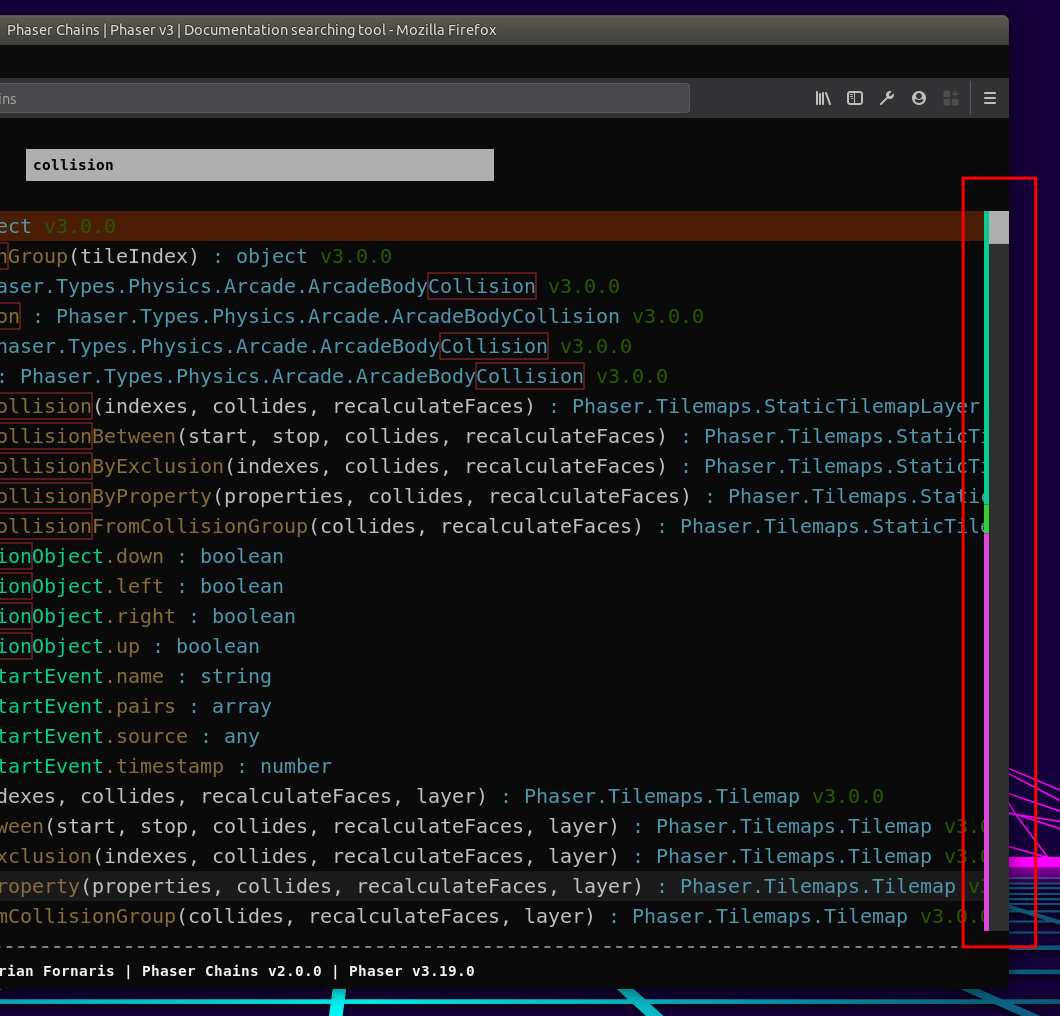
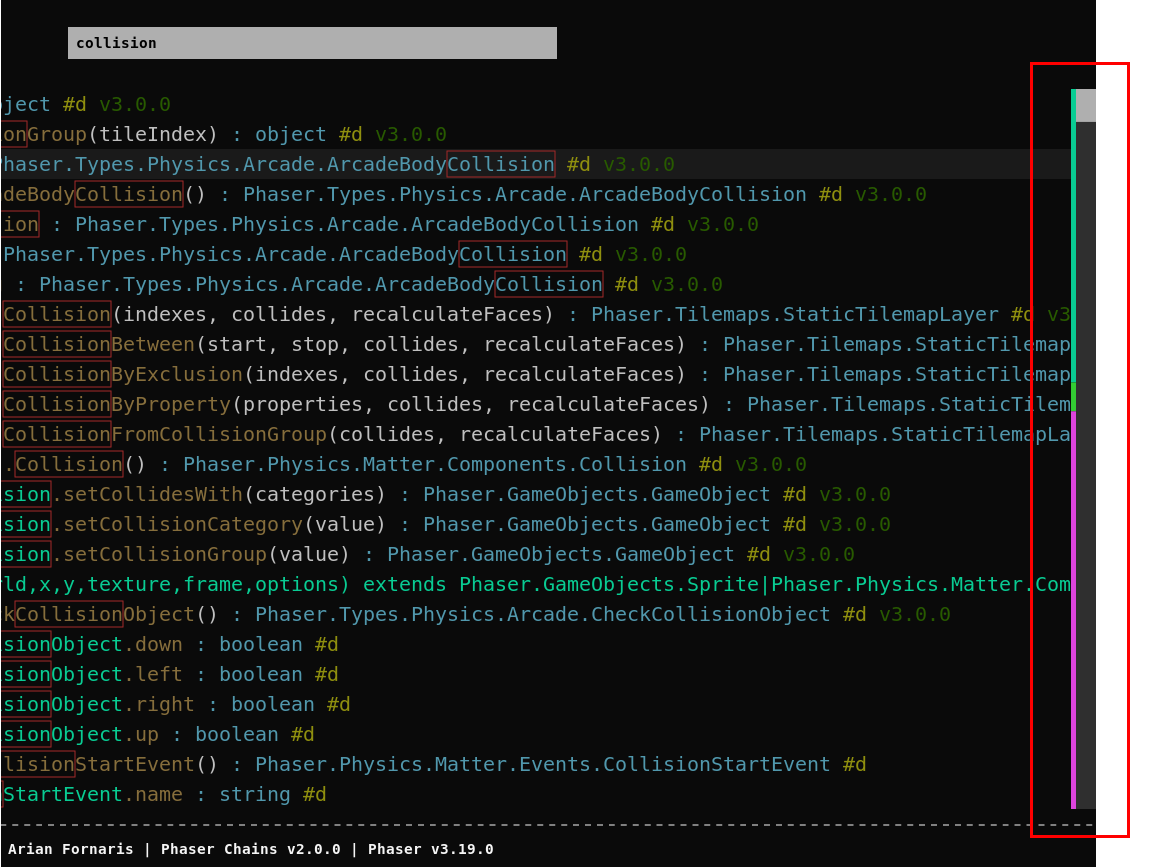
Docs.

diff --git a/README.md b/README.md
@@ -2,11 +2,13 @@
 
 [Phaser Chains](https://phasereditor2d.com/chains) is a tool to browse the Phaser API and examples. It is not the common navigator that presents the data as a tree of elements.
 
-For each Phaser API element we create a line of code (chain) with a particular format, so you will perform a search on all these lines and use the format to extract the information you are looking for.
+For each Phaser API element we create a line of code (chain) with a particular pattern, so you will perform a search on all these lines and use the pattern to extract the information you are looking for.
+
+We can say there are two type of API chains, a pure API element, like `Phaser.GameObjects.GameObjectFactory.sprite(..)`, and a "chained" element, like `Phaser.Scene.add.sprite(...)`. Both expressions point to the same API element. Note the chaining element is the "innovation" here, and allows to discover the API quickly.
 
 Let's see an example:
 
-You know the Phaser API allows to write lot of "chaining code", and you can add objects to a scene in this way: `this.add.sprite(...)`. That's ok, but know you want to know all the kind of objects you can add to the scene in the same way, so you write the query:
+You know you can add objects to a scene in this way: `this.add.sprite(...)`, chaining properties and methods. That's ok, but know you want to know all the kind of objects you can add to the scene in the same way, so you write the query:
 
 ```
 this.add (
@@ -35,7 +37,7 @@ Then you will get a merge of Phaser API elements and Phaser examples lines.
 ![Results on Phaser API and Phaser examples](guide-images/search-3.png)
 
 
-## The Documentation Panel
+## The documentation panel
 
 If you click on a chain created with the Phaser API, it shows a panel with: 
 
@@ -50,7 +52,7 @@ You can press the `ESC` key to show/hide the panel.
 ![Docs panel](guide-images/docs-panel.png)
 
 
-## The Example Panel
+## The example panel
 
 When you click on an example line or example file name, it shows a panel with links to the example player and the example source.
 
@@ -81,17 +83,33 @@ This expansion is applied only when it tests against API chains. When it tests a
 
 Every chain starts with a special symbol that identifies it. you can use that symbol in your queries to get only chains of a specific type:
 
-* All Phaser API chains start with `@`.
-* All example files chains start with `/`.
-* All example lines start with `>`.
+* All Phaser API elements (without chaining, like `Phaser.Loader.LoaderPlugin.image(...)`) start with `@`.
+* All chained Phaser API elements (like `Phaser.Scene.load.image(...)`) start with `%`.
+* All example file names start with `/`.
+* All example content lines start with `>`.
+
+### Select chains by inheritance
+
+At the end of each API chain there is "tag" to indicate it it is an inherited (`#i`) or declared (`#d`) element.
+
+Query for:
+
+```
+sprite.play
+```
+
+![Inheritance tags](guide-images/inherited-elements.png)
+
 
 ### Select chains by version
 
-Every API chain ends with the version of the API element. You can write a query to get the API introduced in a specific version by using the version number. For example, this query shows all the `Phaser.LoaderPlugin` members introduced in Phaser v3.17:
+Every API chain ends with the version of the API element. You can write a query to get the API introduced in a specific version by using the version number. For example, this query shows all GameObjects members introduced in Phaser v3.19.0:
 
 ```
-this.load v3.1
+@ gameobjects #d v3.19.0
 ```
+
+![Query by version](guide-images/query-by-version.png)
 
 ## Issues
 
